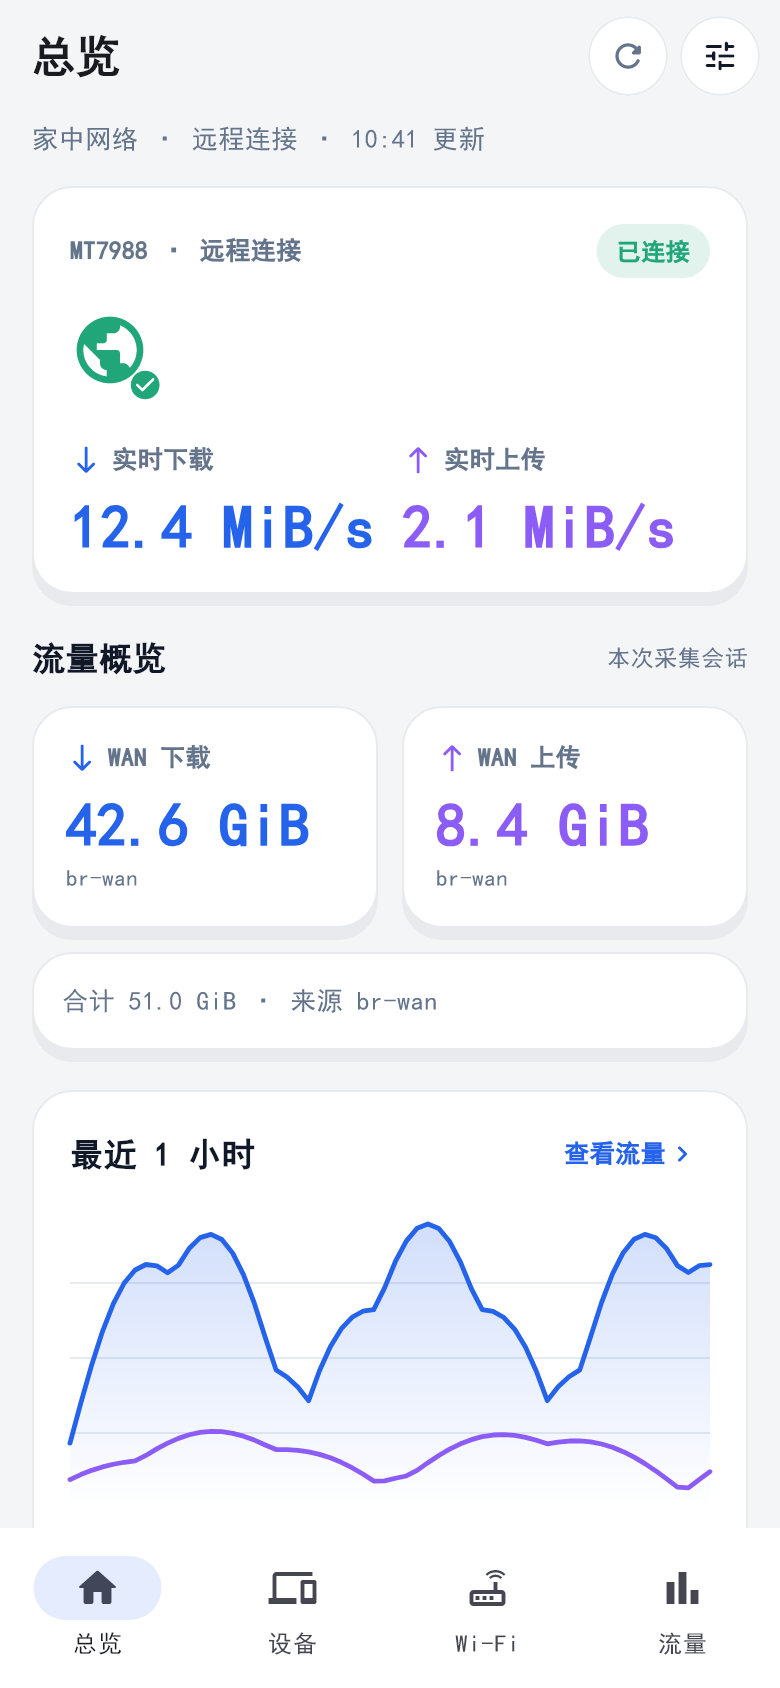
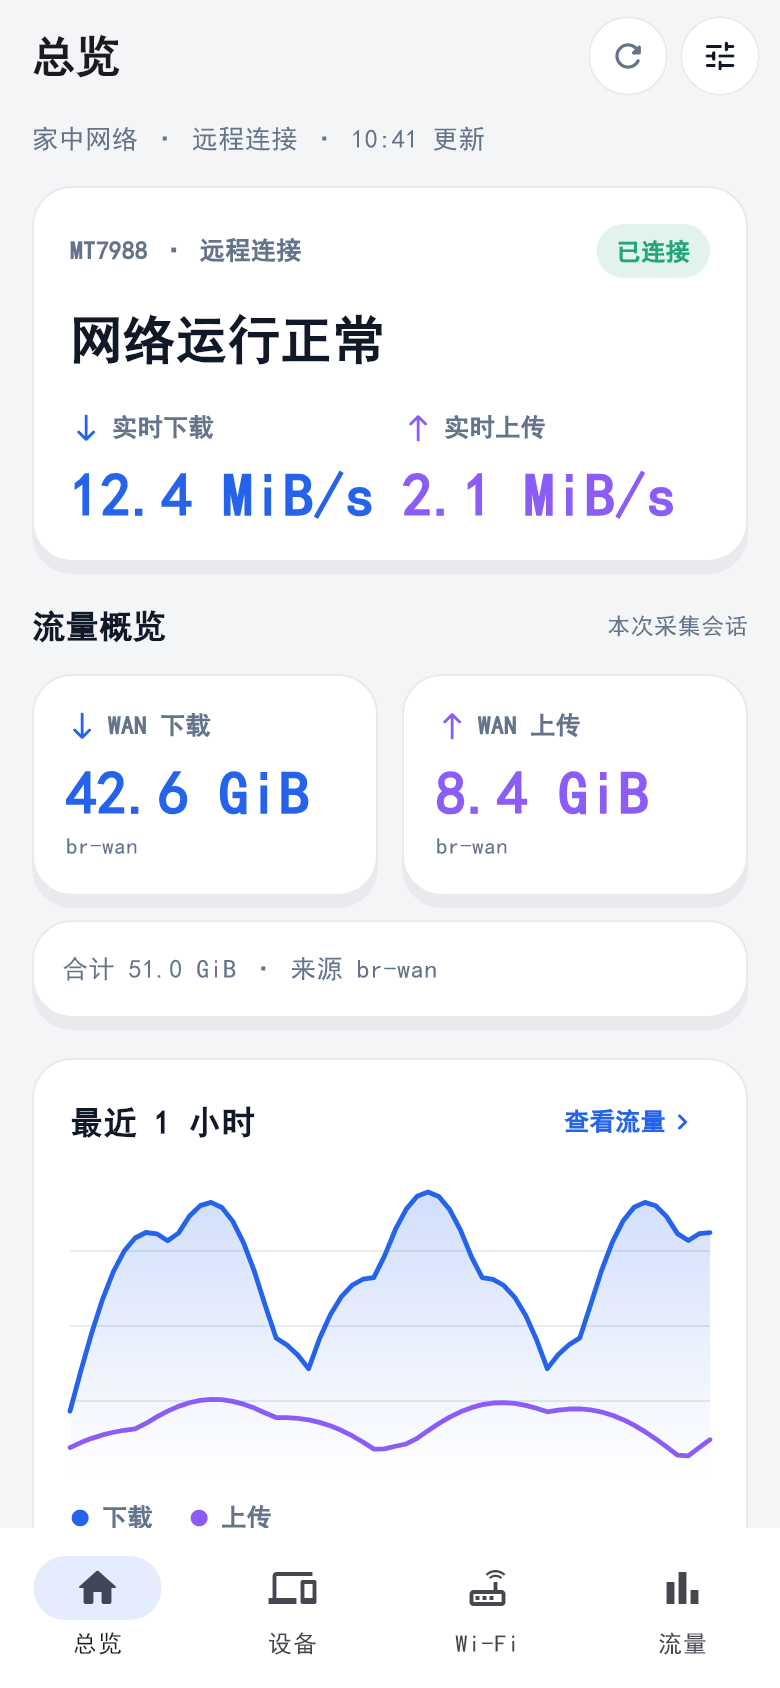
Use text for connected status on overview

diff --git a/lib/screens/overview.dart b/lib/screens/overview.dart
@@ -32,31 +32,26 @@ class _Overview extends StatelessWidget {
     final String stateLabel;
     final String headline;
     final String detail;
-    final IconData? headlineIcon;
     if (offline) {
       stateColor = _red;
       stateLabel = '连接中断';
       headline = '连接已中断';
       detail = '显示上次成功读取的数据';
-      headlineIcon = null;
     } else if (stale) {
       stateColor = _amber;
       stateLabel = '数据延迟';
       headline = '数据更新延迟';
       detail = 'Traffic 采集已超过 60 秒未更新';
-      headlineIcon = null;
     } else if (summary == null && snapshot.live == null) {
       stateColor = _green;
       stateLabel = '已连接';
       headline = '路由器已连接';
       detail = '未获取到 Traffic 采集数据';
-      headlineIcon = null;
     } else {
       stateColor = _green;
       stateLabel = '已连接';
       headline = '网络运行正常';
       detail = '';
-      headlineIcon = Icons.public_rounded;
     }
 
     final down = summary?.headlineDown;
@@ -73,7 +68,6 @@ class _Overview extends StatelessWidget {
           stateLabel: stateLabel,
           stateColor: stateColor,
           headline: headline,
-          headlineIcon: headlineIcon,
           detail: detail,
           live: snapshot.live,
         ),
@@ -192,7 +186,6 @@ class _Hero extends StatelessWidget {
     required this.stateLabel,
     required this.stateColor,
     required this.headline,
-    required this.headlineIcon,
     required this.detail,
     required this.live,
   });
@@ -201,7 +194,6 @@ class _Hero extends StatelessWidget {
   final String stateLabel;
   final Color stateColor;
   final String headline;
-  final IconData? headlineIcon;
   final String detail;
   final LiveRate? live;
 
@@ -230,30 +222,12 @@ class _Hero extends StatelessWidget {
             ],
           ),
           const SizedBox(height: 16),
-          if (headlineIcon != null)
-            SizedBox(
-              width: 46,
-              height: 46,
-              child: Stack(
-                children: [
-                  Icon(headlineIcon,
-                      size: 40, color: stateColor, semanticLabel: '网络连接正常'),
-                  Positioned(
-                    right: 0,
-                    bottom: 0,
-                    child: Icon(Icons.check_circle_rounded,
-                        size: 17, color: stateColor),
-                  ),
-                ],
-              ),
-            )
-          else
-            Text(headline,
-                style: TextStyle(
-                    fontSize: 26,
-                    height: 1.15,
-                    fontWeight: FontWeight.w800,
-                    color: _inkOf(context))),
+          Text(headline,
+              style: TextStyle(
+                  fontSize: 26,
+                  height: 1.15,
+                  fontWeight: FontWeight.w800,
+                  color: _inkOf(context))),
           if (detail.isNotEmpty) ...[
             const SizedBox(height: 6),
             Text(detail,

diff --git a/test/widget_test.dart b/test/widget_test.dart
@@ -122,20 +122,15 @@ void main() {
     expect(find.text('BE14 驱动可能不返回全部射频'), findsOneWidget);
   });
 
-  testWidgets('healthy network uses a connection icon in the hero',
+  testWidgets('healthy network uses a concise text status in the hero',
       (tester) async {
     await tester.pumpWidget(MaterialApp(
         home: RouterHome(
             storage: _MemoryStorage(), apiFactory: (_) => _HealthyApi())));
     await tester.pumpAndSettle();
-    expect(find.byIcon(Icons.public_rounded), findsOneWidget);
-    expect(find.byIcon(Icons.check_circle_rounded), findsOneWidget);
-    expect(find.text('网络运行正常'), findsNothing);
-    final semantics = tester.ensureSemantics();
-    await tester.pump();
-    expect(tester.getSemantics(find.byIcon(Icons.public_rounded)).label,
-        contains('网络连接正常'));
-    semantics.dispose();
+    expect(find.text('网络运行正常'), findsOneWidget);
+    expect(find.byIcon(Icons.public_rounded), findsNothing);
+    expect(find.byIcon(Icons.check_circle_rounded), findsNothing);
   });
 
   testWidgets('iOS presents a platform tab bar', (tester) async {
